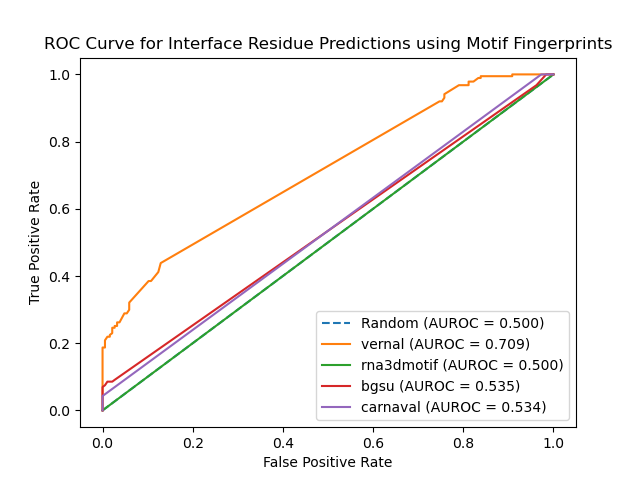
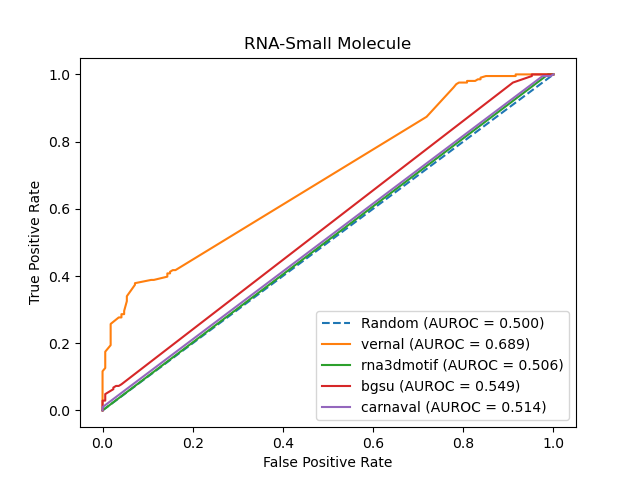
Draw ROC curves

diff --git a/train/onehot_encoder.py b/train/onehot_encoder.py
@@ -380,7 +380,7 @@ def draw_roc(data, save_fig, task):
                     'protein': 'Protein'}
 
     for X, y, label in data:
-        print(f"Data shape {X.shape}.")
+        print(f"Data shape {X.shape}")
 
         X_train, X_test, y_train, y_test = train_test_split(X,
                                                             y,
@@ -425,7 +425,7 @@ def draw_roc(data, save_fig, task):
 
         first = False
     # Show legend
-    plt.legend() # 
+    plt.legend()
     # Show plot
     plt.savefig(save_fig)
 
@@ -511,7 +511,7 @@ def main():
                # accuracy[name][task] = kfold(X, y)
                 roc_data.append((X, y, name))
 
-        draw_roc(roc_data, os.path.join(args.fig_dir, task))
+        draw_roc(roc_data, os.path.join(args.fig_dir, task), task)
 
     # print(accuracy)
 
